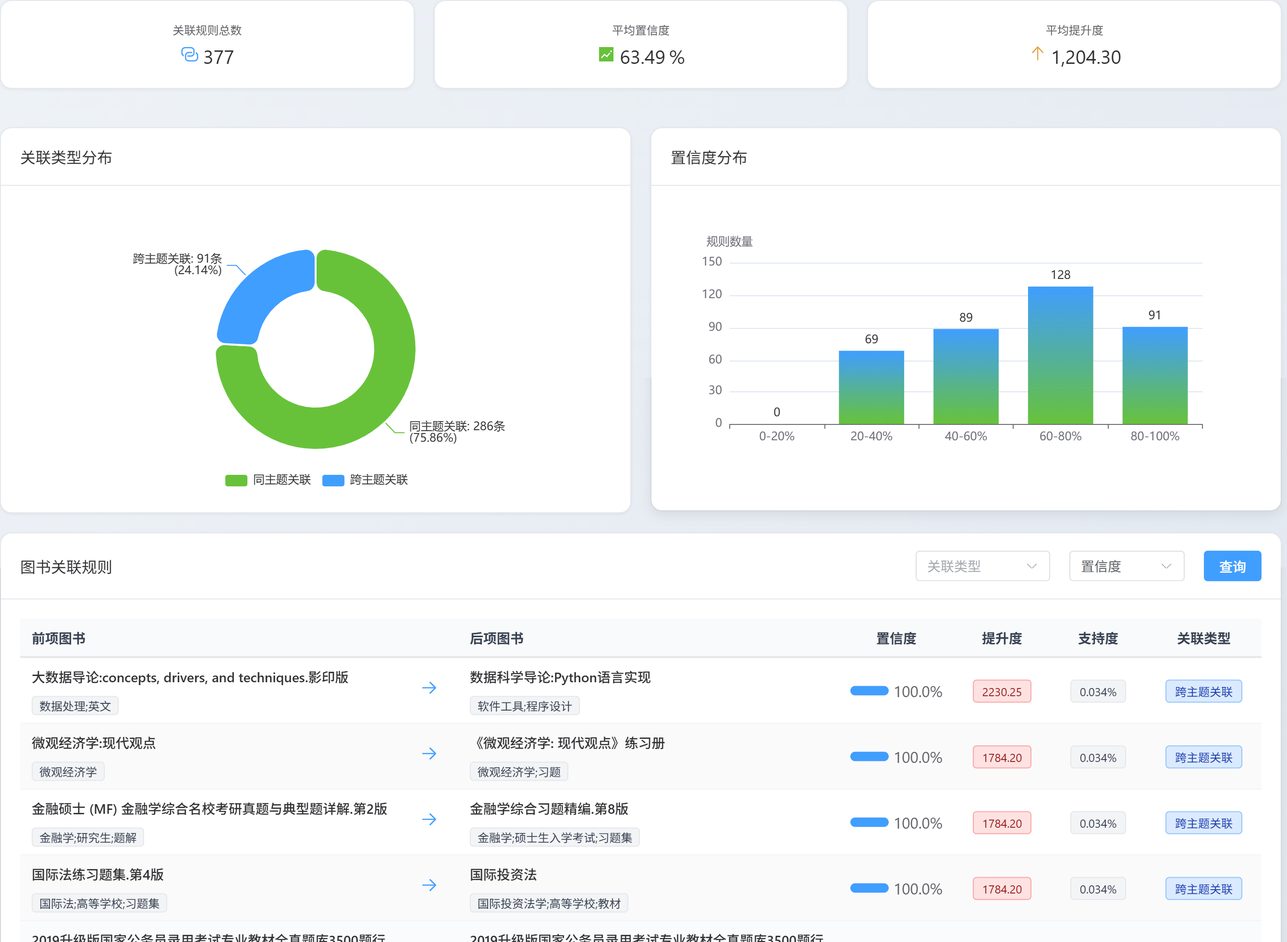
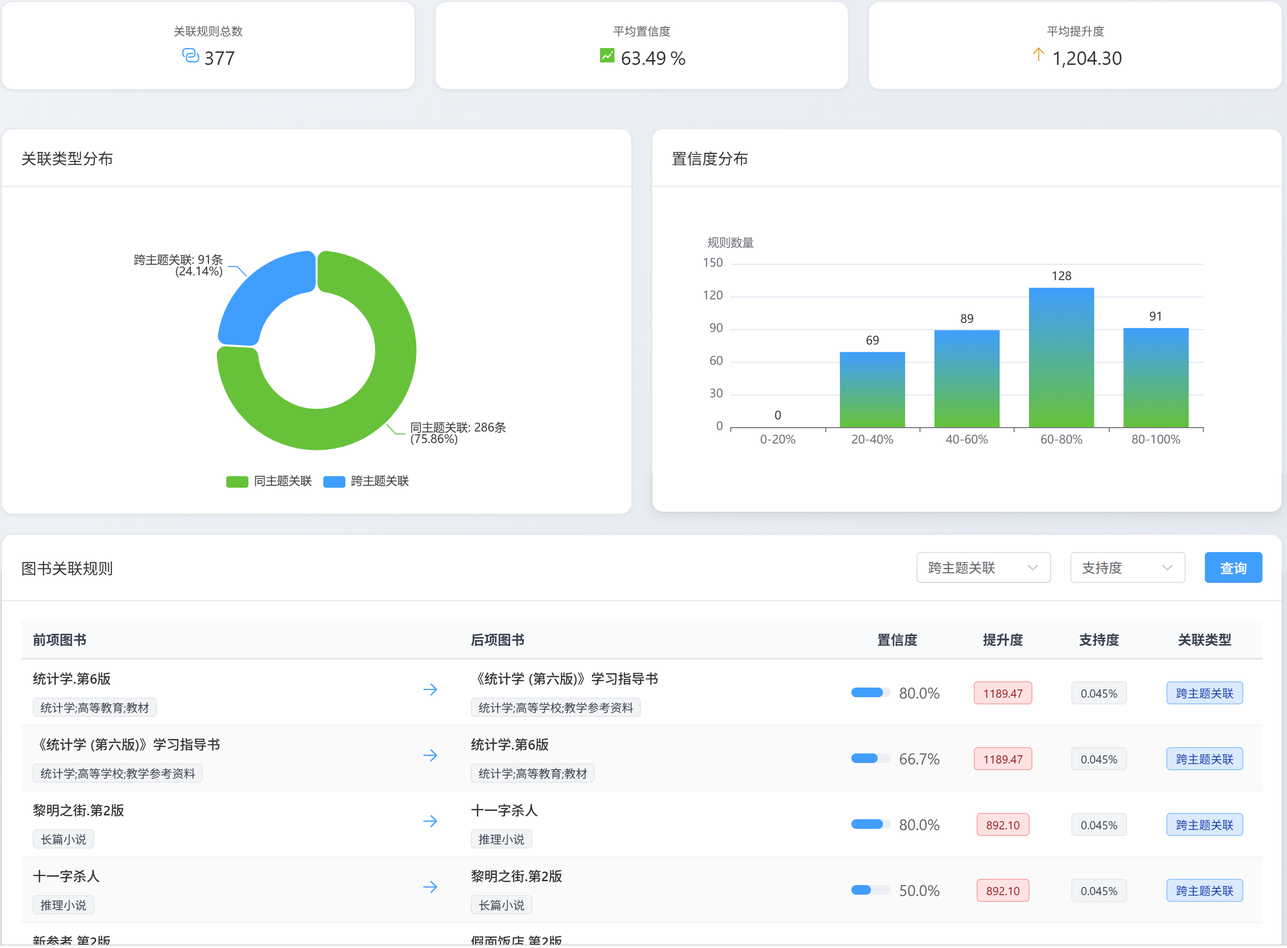
docs: 更新README文档中的图片引用
替换旧的ASCII架构图为本地图片文件，删除冗余的旧图片引用并修正预测分析模块的图片路径

diff --git a/README.md b/README.md
@@ -28,67 +28,7 @@
 
 ### 系统整体架构图
 
-```
-┌─────────────────────────────────────────────────────────────────────────────┐
-│                              用户访问层                                      │
-│                    ┌──────────────────────────────┐                        │
-│                    │   Vue 3 前端应用              │                        │
-│                    │   (Element Plus + ECharts)   │                        │
-│                    └──────────────┬───────────────┘                        │
-│                                   │ HTTP/HTTPS                              │
-└───────────────────────────────────┼───────────────────────────────────────┘
-                                    │
-┌───────────────────────────────────▼───────────────────────────────────────┐
-│                           应用服务层                                        │
-│                    ┌──────────────────────────────┐                        │
-│                    │   Spring Boot 后端服务        │                        │
-│                    │   (RESTful API + JWT认证)    │                        │
-│                    └──────────────┬───────────────┘                        │
-│                                   │ JDBC                                    │
-└───────────────────────────────────┼───────────────────────────────────────┘
-                                    │
-┌───────────────────────────────────▼───────────────────────────────────────┐
-│                           业务数据层                                        │
-│                    ┌──────────────────────────────┐                        │
-│                    │   MySQL 业务数据库            │                        │
-│                    │   (30张业务表 + 1张系统表)   │                        │
-│                    └──────────────────────────────┘                        │
-└─────────────────────────────────────────────────────────────────────────────┘
-
-┌─────────────────────────────────────────────────────────────────────────────┐
-│                          大数据处理层                                        │
-│                                                                              │
-│  ┌──────────────┐    ┌──────────────┐    ┌──────────────┐                  │
-│  │   HDFS       │    │   Hive      │    │   Spark      │                  │
-│  │  (分布式存储) │◄───►│  (数据仓库) │◄───►│  (计算引擎)  │                  │
-│  └──────────────┘    └──────────────┘    └──────────────┘                  │
-│         ▲                    ▲                    ▲                        │
-│         │                    │                    │                        │
-│         └────────────────────┴────────────────────┘                        │
-│                              │                                               │
-│                    ┌─────────▼─────────┐                                    │
-│                    │  数据仓库分层架构  │                                    │
-│                    │  ODS → DWD → DWS → ADS                                │
-│                    └─────────┬─────────┘                                    │
-│                              │                                               │
-│                    ┌─────────▼─────────┐                                    │
-│                    │  Spark数据处理    │                                    │
-│                    │  (PySpark脚本)    │                                    │
-│                    └─────────┬─────────┘                                    │
-│                              │                                               │
-│                    ┌─────────▼─────────┐                                    │
-│                    │  数据导出到MySQL  │                                    │
-│                    └───────────────────┘                                    │
-└─────────────────────────────────────────────────────────────────────────────┘
-
-┌─────────────────────────────────────────────────────────────────────────────┐
-│                          数据源层                                            │
-│                    ┌──────────────────────────────┐                        │
-│                    │   CSV原始数据文件             │                        │
-│                    │   (LENDHIST2019_2020.csv)    │                        │
-│                    └──────────────────────────────┘                        │
-└─────────────────────────────────────────────────────────────────────────────┘
-```
+![系统整体架构图](images/系统整体架构图.png) 
 
 ### 技术栈
 
@@ -119,72 +59,7 @@
 
 ### 数据仓库分层
 
-```
-┌─────────────────────────────────────────────────────────┐
-│                      CSV原始数据                          │
-└──────────────────────┬──────────────────────────────────┘
-                       │
-                       ▼
-┌─────────────────────────────────────────────────────────┐
-│  ODS层 (原始数据层)                                       │
-│  - ods_library_lend: 原始借阅数据                        │
-└──────────────────────┬──────────────────────────────────┘
-                       │ Spark数据清洗
-                       ▼
-┌─────────────────────────────────────────────────────────┐
-│  DWD层 (明细数据层)                                       │
-│  - dwd_user_info: 用户维度表                             │
-│  - dwd_book_info: 图书维度表                             │
-│  - dwd_lend_detail: 借阅明细事实表                       │
-└──────────────────────┬──────────────────────────────────┘
-                       │ Spark数据汇总
-                       ▼
-┌─────────────────────────────────────────────────────────┐
-│  DWS层 (汇总数据层)                                       │
-│  - dws_user_lend_summary: 用户借阅汇总                   │
-│  - dws_book_lend_summary: 图书借阅汇总                   │
-│  - dws_dept_lend_summary: 院系借阅汇总                   │
-│  - dws_subject_lend_summary: 主题分类汇总                │
-│  - dws_daily_stats: 每日统计                             │
-└──────────────────────┬──────────────────────────────────┘
-                       │ Spark数据分析
-                       ▼
-┌─────────────────────────────────────────────────────────┐
-│  ADS层 (应用数据层)                                       │
-│  - ads_hot_books: 热门图书TOP100                         │
-│  - ads_active_users: 活跃用户TOP100                      │
-│  - ads_dept_preference: 院系偏好分析                     │
-│  - ads_lend_trend: 借阅趋势                             │
-│  - ads_operation_dashboard: 运营看板                    │
-│  - ads_user_profile: 用户画像分析                       │
-│  - ads_major_reading_profile: 专业阅读特征               │
-│  - ads_collection_utilization: 馆藏利用分析              │
-│  - ads_overdue_analysis: 逾期分析                        │
-│  - ads_time_distribution: 时间分布分析                   │
-│  - ads_user_ranking: 用户排名                            │
-│  - ads_book_recommend_base: 图书推荐基础表                │
-│  - ads_publisher_analysis: 出版社分析                     │
-│  - ads_publish_year_analysis: 出版年份分析                │
-│  - ads_book_association: 图书关联规则（可选）             │
-│  - ads_user_cluster: 用户聚类分群（可选）                 │
-└──────────────────────┬──────────────────────────────────┘
-                       │ Spark数据导出
-                       ▼
-┌─────────────────────────────────────────────────────────┐
-│                    MySQL业务数据库                        │
-│                    (31张表)                              │
-└──────────────────────┬──────────────────────────────────┘
-                       │
-                       ▼
-┌─────────────────────────────────────────────────────────┐
-│               Spring Boot后端API服务                      │
-└──────────────────────┬──────────────────────────────────┘
-                       │
-                       ▼
-┌─────────────────────────────────────────────────────────┐
-│              Vue 3前端应用 (Element Plus)                 │
-└─────────────────────────────────────────────────────────┘
-```
+![数据仓库分层图](images/数仓架构图.png) 
 
 ## 📁 项目结构
 
@@ -406,93 +281,9 @@ bash verify.sh
 
 ### 功能模块架构图
 
-```
-┌─────────────────────────────────────────────────────────────────────────────┐
-│                        图书馆借阅分析系统功能模块                              │
-└─────────────────────────────────────────────────────────────────────────────┘
+![系统功能模块图](images/系统功能模块图.png)
 
-┌─────────────────────────────────────────────────────────────────────────────┐
-│  1. 数据仓库建设模块                                                          │
-│  ┌──────────┐  ┌──────────┐  ┌──────────┐  ┌──────────┐                  │
-│  │  ODS层   │─►│  DWD层   │─►│  DWS层   │─►│  ADS层   │                  │
-│  │ 原始数据  │  │ 明细数据  │  │ 汇总数据  │  │ 应用数据  │                  │
-│  └──────────┘  └──────────┘  └──────────┘  └──────────┘                  │
-│       │             │             │             │                          │
-│       └─────────────┴─────────────┴─────────────┘                          │
-│                         Spark ETL处理流程                                   │
-└─────────────────────────────────────────────────────────────────────────────┘
-                                    │
-                                    ▼
-┌─────────────────────────────────────────────────────────────────────────────┐
-│  2. 统计分析模块                                                              │
-│  ┌──────────────┐  ┌──────────────┐  ┌──────────────┐                    │
-│  │ 热门图书分析  │  │ 活跃用户分析  │  │ 院系偏好分析  │                    │
-│  └──────────────┘  └──────────────┘  └──────────────┘                    │
-│  ┌──────────────┐  ┌──────────────┐  ┌──────────────┐                    │
-│  │ 借阅趋势分析  │  │ 时间分布分析  │  │ 逾期分析     │                    │
-│  └──────────────┘  └──────────────┘  └──────────────┘                    │
-└─────────────────────────────────────────────────────────────────────────────┘
-                                    │
-                                    ▼
-┌─────────────────────────────────────────────────────────────────────────────┐
-│  3. 推荐系统模块                                                              │
-│                                                                              │
-│         ┌──────────────────────────────────────┐                            │
-│         │      混合推荐算法引擎                │                            │
-│         └───────────┬────────────────────────┘                            │
-│                     │                                                        │
-│    ┌────────────────┼────────────────┐                                    │
-│    │                │                │                                    │
-│    ▼                ▼                ▼                                    │
-│  ┌─────────┐  ┌─────────┐  ┌─────────┐                                    │
-│  │ ALS协同 │  │ 内容过滤 │  │ 热门推荐 │                                    │
-│  │ 过滤算法 │  │ 算法    │  │ 算法    │                                    │
-│  └─────────┘  └─────────┘  └─────────┘                                    │
-│       │            │            │                                          │
-│       └────────────┴────────────┘                                          │
-│                  │                                                          │
-│                  ▼                                                          │
-│         ┌─────────────────┐                                                │
-│         │  个性化推荐列表  │                                                │
-│         └─────────────────┘                                                │
-└─────────────────────────────────────────────────────────────────────────────┘
-                                    │
-                                    ▼
-┌─────────────────────────────────────────────────────────────────────────────┐
-│  4. 数据挖掘模块                                                              │
-│  ┌──────────────────────┐  ┌──────────────────────┐                      │
-│  │  FPGrowth关联规则     │  │  K-means用户聚类      │                      │
-│  │  挖掘图书关联关系     │  │  识别阅读偏好群体     │                      │
-│  └──────────────────────┘  └──────────────────────┘                      │
-└─────────────────────────────────────────────────────────────────────────────┘
-                                    │
-                                    ▼
-┌─────────────────────────────────────────────────────────────────────────────┐
-│  5. 预测分析模块                                                              │
-│  ┌──────────────────────┐  ┌──────────────────────┐                      │
-│  │ 逾期风险预测         │  │ 借阅趋势预测          │                      │
-│  │ (随机森林算法)       │  │ (时间序列回归)        │                      │
-│  └──────────────────────┘  └──────────────────────┘                      │
-│  ┌──────────────────────┐                                                │
-│  │ 图书热度预测          │                                                │
-│  │ (时间序列预测)        │                                                │
-│  └──────────────────────┘                                                │
-└─────────────────────────────────────────────────────────────────────────────┘
-
-┌─────────────────────────────────────────────────────────────────────────────┐
-│                          用户角色权限体系                                    │
-│                                                                              │
-│  ┌──────────────────┐  ┌──────────────────┐  ┌──────────────────┐      │
-│  │  高级管理员       │  │  图书管理员       │  │  普通用户         │      │
-│  │  (userType=1)    │  │  (userType=2)    │  │  (userType=3)     │      │
-│  │                  │  │                  │  │                  │      │
-│  │ • 运营分析        │  │ • 业务管理        │  │ • 个人数据        │      │
-│  │ • 数据挖掘        │  │ • 统计分析        │  │ • 图书推荐        │      │
-│  │ • 预测分析        │  │ • 逾期管理        │  │ • 阅读画像        │      │
-│  │ • 系统监控        │  │ • 时间分析        │  │ • 排名查询        │      │
-│  └──────────────────┘  └──────────────────┘  └──────────────────┘      │
-└─────────────────────────────────────────────────────────────────────────────┘
-```
+![系统用户角色用例图](images/系统用户角色用例图.png)
 
 ### 1. 数据仓库建设
 
@@ -757,7 +548,9 @@ hive -f bigdata/hive/01_create_ods.sql
 #### 用户聚类分析
 ![用户聚类分析](images/04_高级管理员-用户聚类分析.png) 
 #### 预测分析
-![预测分析](images/05_高级管理员-预测分析.png) 
+![预测分析](images/05_高级管理员-借阅预测.png) 
+![预测分析](images/05_高级管理员-逾期预测.png) 
+![预测分析](images/05_高级管理员-图书热度预测.png) 
 #### 图书关联分析
 ![图书关联分析](images/06_高级管理员-图书关联分析.png) 
 #### 推荐监控
